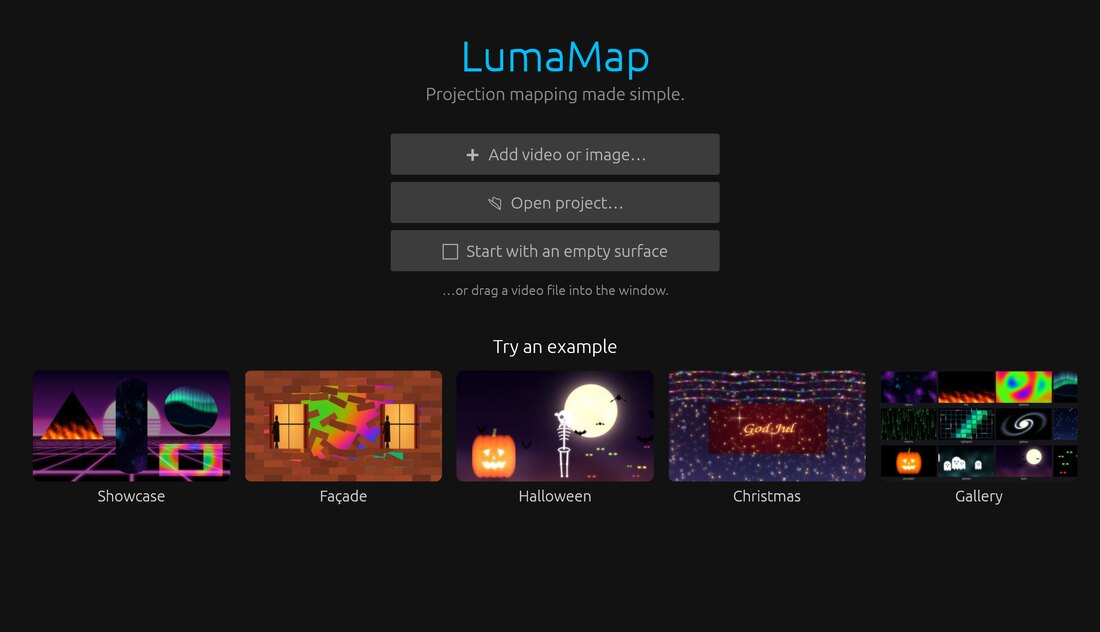
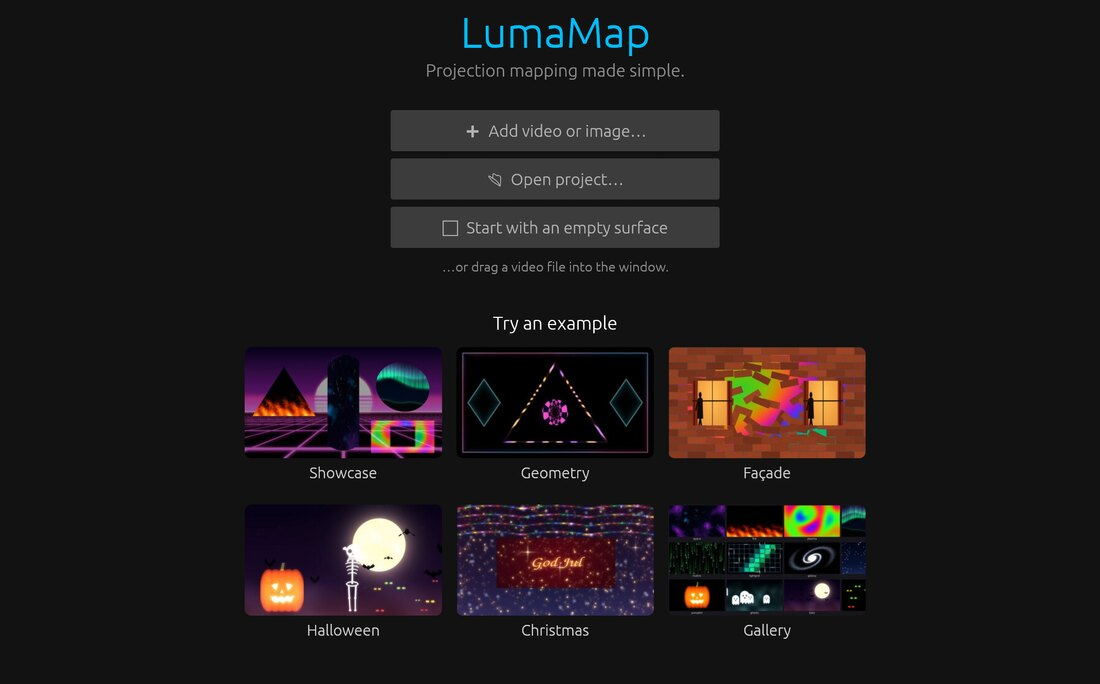
Snäpp, kantljus-effekter och exemplet Geometri
- Hörn snäpper mot andra ytors hörn och kanter och mot bildens kant;
  en hel yta snäpper med närmaste hörn. Gul ring visar snäppet, Ctrl = fritt.
- Nya effekter: Jagande ljus, Neonram och Ljussvep (kanten räknas i pixlar)
- examples/geometry.lmap: geometrisk show utan video, med cues
- Välkomstvyn fördelar exempelkorten jämnt över raderna

Changed region(s): [[0.0309, 0.481, 0.9891, 0.932], [0.34, 0.0301, 0.68, 0.481]]

diff --git a/crates/lm-app/src/canvas.rs b/crates/lm-app/src/canvas.rs
@@ -63,6 +63,9 @@ pub struct Drag {
 pub const ACCENT: Color32 = Color32::from_rgb(0, 190, 255);
 pub const MASK_COLOR: Color32 = Color32::from_rgb(255, 150, 40);
 const HANDLE_HIT: f32 = 14.0;
+/// Hur nära (i skärmpunkter) ett hörn måste vara för att snäppa.
+const SNAP_CORNER: f32 = 12.0;
+const SNAP_EDGE: f32 = 8.0;
 /// Antal linjesegment mellan två kontrollpunkter när meshkurvor ritas.
 const CURVE_STEPS: usize = 8;
 
@@ -253,13 +256,19 @@ impl LumaApp {
                             }
                         }
                     }
-                    let (id, g) = (d.surface, d.gesture);
+                    let (id, g, point) = (d.surface, d.gesture, d.point);
+                    // Snäpp mot andra ytor och bildens kant (Ctrl = dra fritt).
+                    self.snap_mark = None;
+                    if matches!(kind, PtKind::Dst(_)) && !ui.input(|i| i.modifiers.command) {
+                        self.snap(&v, kind, id, point, &mut pts);
+                    }
                     self.set_points(id, kind, pts, Some(g));
                 }
             }
         }
         if resp.drag_stopped() {
             self.drag = None;
+            self.snap_mark = None;
         }
 
         if let (PtKind::Mask(_), Some(pos)) = (kind, pointer) {
@@ -332,6 +341,11 @@ impl LumaApp {
             if e.bottom > 0.0 {
                 dash(egui::pos2(rect.min.x, y1), egui::pos2(rect.max.x, y1));
             }
+        }
+        if let (Some(m), true) = (self.snap_mark, self.drag.is_some()) {
+            let c = v.pt(m);
+            painter.circle_stroke(c, 11.0, Stroke::new(2.0, Color32::from_rgb(255, 220, 80)));
+            painter.circle_stroke(c, 15.0, Stroke::new(1.0, Color32::from_rgba_unmultiplied(255, 220, 80, 120)));
         }
         let mut labels: Vec<Rect> = Vec::new();
         for id in self.canvas_surfaces(kind) {
@@ -413,6 +427,76 @@ impl LumaApp {
                     painter.circle(*p, r, fill, Stroke::new(2.0, if matches!(kind, PtKind::Mask(_)) { MASK_COLOR } else { ACCENT }));
                 } else {
                     painter.circle_filled(*p, 3.5, color);
+                }
+            }
+        }
+    }
+
+    /// Snäpper dragna punkter: ett hörn mot andra ytors hörn, deras kanter och
+    /// bildens kant; en hel yta så att något av dess hörn hamnar på ett hörn.
+    fn snap(&mut self, v: &View, kind: PtKind, id: SurfaceId, point: Option<usize>, pts: &mut [Pt]) {
+        let others: Vec<SurfaceId> = self.canvas_surfaces(kind).into_iter().filter(|o| *o != id).collect();
+        // Hörn att snäppa till: andra synliga ytors punkter och bildens hörn.
+        let mut corners: Vec<Pt> = vec![[0.0, 0.0], [1.0, 0.0], [1.0, 1.0], [0.0, 1.0]];
+        for o in &others {
+            if self.project.surface(*o).is_some_and(|s| s.visible) {
+                corners.extend_from_slice(self.points(*o, kind).unwrap_or_default());
+            }
+        }
+        let screen = |p: Pt| {
+            let q = v.pt(p);
+            [q.x, q.y]
+        };
+        let dist = |a: [f32; 2], b: [f32; 2]| ((a[0] - b[0]).powi(2) + (a[1] - b[1]).powi(2)).sqrt();
+        match point {
+            Some(i) => {
+                let at = screen(pts[i]);
+                let best = corners
+                    .iter()
+                    .map(|c| (dist(screen(*c), at), *c))
+                    .filter(|(d, _)| *d <= SNAP_CORNER)
+                    .min_by(|a, b| a.0.total_cmp(&b.0));
+                if let Some((_, c)) = best {
+                    pts[i] = c;
+                    self.snap_mark = Some(c);
+                    return;
+                }
+                // Kanter: andra ytors konturer och bildens ram.
+                let mut edges: Vec<Vec<[f32; 2]>> = vec![[[0.0, 0.0], [1.0, 0.0], [1.0, 1.0], [0.0, 1.0]].iter().map(|p| screen(*p)).collect()];
+                for o in &others {
+                    if self.project.surface(*o).is_some_and(|s| s.visible) {
+                        edges.push(self.outline(*o, kind).iter().map(|p| screen(*p)).collect());
+                    }
+                }
+                let best = edges
+                    .iter()
+                    .filter_map(|e| lm_geom::nearest_edge(at, e, SNAP_EDGE))
+                    .map(|(_, q)| (dist(q, at), q))
+                    .min_by(|a, b| a.0.total_cmp(&b.0));
+                if let Some((_, q)) = best {
+                    let n = v.norm(egui::pos2(q[0], q[1]));
+                    pts[i] = n;
+                    self.snap_mark = Some(n);
+                }
+            }
+            None => {
+                let mut best: Option<(f32, Pt, Pt)> = None;
+                for p in pts.iter() {
+                    let at = screen(*p);
+                    for c in &corners {
+                        let d = dist(screen(*c), at);
+                        if d <= SNAP_CORNER && best.is_none_or(|b| d < b.0) {
+                            best = Some((d, *p, *c));
+                        }
+                    }
+                }
+                if let Some((_, from, to)) = best {
+                    let delta = [to[0] - from[0], to[1] - from[1]];
+                    for p in pts.iter_mut() {
+                        p[0] += delta[0];
+                        p[1] += delta[1];
+                    }
+                    self.snap_mark = Some(to);
                 }
             }
         }

diff --git a/crates/lm-core/src/model.rs b/crates/lm-core/src/model.rs
@@ -492,12 +492,18 @@ pub enum EffectKind {
     ColorCycle = 8,
     Strobe = 9,
     Outline = 10,
+    Chase = 11,
+    Neon = 12,
+    Sweep = 13,
 }
 
 impl EffectKind {
-    pub const ALL: [EffectKind; 11] = [
+    pub const ALL: [EffectKind; 14] = [
         EffectKind::None,
         EffectKind::Outline,
+        EffectKind::Chase,
+        EffectKind::Neon,
+        EffectKind::Sweep,
         EffectKind::Kaleidoscope,
         EffectKind::Tile,
         EffectKind::Scroll,
@@ -523,6 +529,9 @@ impl EffectKind {
             EffectKind::ColorCycle => t("Färgcykel", "Colour cycle"),
             EffectKind::Strobe => t("Blinka", "Strobe"),
             EffectKind::Outline => t("Konturglöd", "Edge glow"),
+            EffectKind::Chase => t("Jagande ljus", "Chasing lights"),
+            EffectKind::Neon => t("Neonram", "Neon frame"),
+            EffectKind::Sweep => t("Ljussvep", "Light sweep"),
         }
     }
 
@@ -540,6 +549,9 @@ impl EffectKind {
             EffectKind::ColorCycle => t("Färgerna vandrar runt färghjulet", "Colours travel around the colour wheel"),
             EffectKind::Strobe => t("Ytan blinkar i takt", "The surface flashes to the beat"),
             EffectKind::Outline => t("Bara kanterna lyser, med ett ljus som springer runt", "Only the edges glow, with a light running around"),
+            EffectKind::Chase => t("Ljuspunkter springer runt ytans kant – som en ljusslinga", "Dots of light run around the edge – like a light chain"),
+            EffectKind::Neon => t("En skarp lysande ram runt ytan som pulserar i takt", "A sharp glowing frame around the surface that pulses to the beat"),
+            EffectKind::Sweep => t("En ljusstrimma sveper över ytan i takt", "A bar of light sweeps across the surface to the beat"),
         }
     }
 }
@@ -1002,6 +1014,25 @@ mod tests {
             for s in &p.sources {
                 assert!(dir.join(s.kind.path().unwrap()).exists(), "{name}: {}", s.name);
             }
+        }
+    }
+
+    #[test]
+    fn geometry_project_uses_edge_effects() {
+        let p = Project::from_ron(include_str!("../../../examples/geometry.lmap")).unwrap();
+        assert_eq!(p.cues.len(), 4);
+        // Bara mönster och färger – inga filer.
+        assert!(p.sources.iter().all(|s| s.kind.path().is_none()));
+        for kind in [EffectKind::Chase, EffectKind::Neon, EffectKind::Sweep] {
+            assert!(p.surfaces.iter().any(|s| s.effect.kind == kind), "{kind:?}");
+        }
+    }
+
+    #[test]
+    fn effect_kinds_are_listed_once() {
+        for (i, a) in EffectKind::ALL.iter().enumerate() {
+            assert!(!EffectKind::ALL[i + 1..].contains(a), "{a:?}");
+            assert!(*a == EffectKind::None || !a.hint().is_empty(), "{a:?}");
         }
     }
 

diff --git a/crates/lm-app/src/welcome.rs b/crates/lm-app/src/welcome.rs
@@ -16,9 +16,10 @@ pub struct Example {
 }
 
 /// Exemplen och deras namn, i den ordning de visas.
-fn example_names() -> [(&'static str, &'static str); 5] {
+fn example_names() -> [(&'static str, &'static str); 6] {
     [
         ("showcase", t("Översikt", "Showcase")),
+        ("geometry", t("Geometri", "Geometry")),
         ("facade", t("Fasad", "Façade")),
         ("halloween", "Halloween"),
         ("christmas", t("Jul", "Christmas")),
@@ -110,7 +111,10 @@ impl LumaApp {
                     ui.label(RichText::new(t("Prova ett exempel", "Try an example")).size(18.0).strong());
                     ui.add_space(10.0);
                     let gap = 14.0;
-                    let per_row = (((ui.available_width() + gap) / (CARD.x + gap)) as usize).clamp(1, examples.len());
+                    // Så många kort som ryms, men jämnt fördelade (3 + 3 hellre än 5 + 1).
+                    let fits = (((ui.available_width() + gap) / (CARD.x + gap)) as usize).clamp(1, examples.len());
+                    let rows = examples.len().div_ceil(fits);
+                    let per_row = examples.len().div_ceil(rows);
                     for chunk in examples.chunks(per_row) {
                         let width = chunk.len() as f32 * (CARD.x + gap) - gap;
                         ui.allocate_ui(egui::vec2(width, CARD.y + 30.0), |ui| {

diff --git a/crates/lm-app/src/app.rs b/crates/lm-app/src/app.rs
@@ -118,6 +118,8 @@ pub struct LumaApp {
     pub recent: Vec<PathBuf>,
     pub welcome_closed: bool,
     pub examples: Option<Vec<crate::welcome::Example>>,
+    /// Punkten ett drag just snäppte till (ritas som en ring).
+    pub snap_mark: Option<lm_core::Pt>,
 }
 
 impl LumaApp {
@@ -194,6 +196,7 @@ impl LumaApp {
             recent: load_recent(),
             welcome_closed: false,
             examples: None,
+            snap_mark: None,
         };
 
         match startup.file {

diff --git a/README.md b/README.md
@@ -23,6 +23,8 @@ The goal: *map a video onto a wall in two minutes without reading a manual.*
   projector windows render the same image, live.
 - **Surfaces:** quad (perspective-correct, no diagonal seam), triangle,
   ellipse and curved mesh for pillars and arches.
+- **Snapping:** corners snap to other surfaces and to the image edge, so
+  neighbouring surfaces meet without gaps.
 - **Masks** with soft edges – cut out a window or a door. Masks stay put on
   the wall when you adjust the surface.
 - **Align with a webcam:** the projector shows a few dots, the camera finds
@@ -35,9 +37,11 @@ The goal: *map a video onto a wall in two minutes without reading a manual.*
   solid colours and **live patterns** drawn on the GPU – no video needed.
 - **21 ready-made loops** to use freely – space, fire, aurora, Christmas,
   Halloween, a collapsing brick façade and more (see [Examples](#examples)).
-- **Effects on any surface:** edge glow that follows the surface's shape,
-  kaleidoscope, tiles, scroll, rotate, pulse, colour cycle, strobe, blur,
-  invert – in time with a tempo you tap in.
+- **Effects on any surface:** edge lights that follow the surface's shape
+  (edge glow, chasing lights, neon frame, light sweep), kaleidoscope, tiles,
+  scroll, rotate, pulse, colour cycle, strobe, blur, invert – in time with a
+  tempo you tap in. Edge lights turn plain shapes into a geometric show with
+  no video at all.
 - **Sound-reactive:** effects can follow the bass from a microphone or from
   what the computer plays; the tempo is picked up from the music.
 - Crop, blend modes (normal, add, multiply, screen) and colour correction
@@ -108,7 +112,7 @@ The binary ends up in `target/release/lumamap`.
 LumaMap opens with a welcome screen: add a video, open a project, or click
 one of the examples to see how a finished show is built.
 
-![Welcome screen with the five example projects](docs/welcome.jpg)
+![Welcome screen with the six example projects](docs/welcome.jpg)
 
 1. Drag a video or image into the window. It appears on a new surface.
 2. Drag the surface's four corners until they fit the wall.
@@ -128,7 +132,9 @@ are on the welcome screen and under ☰ → **Recent**.
   Drag media onto a surface (in the list or in the preview) to show it there.
   Drag surfaces up and down to change which one is in front; 👁 hides one.
   Cues show their fade time, ▶ marks the running cue and › the next one.
-- **Middle – the projector preview.** Drag corners or whole surfaces.
+- **Middle – the projector preview.** Drag corners or whole surfaces. A
+  corner snaps to the corners and edges of other surfaces and to the edge of
+  the image (a yellow ring shows it); hold **Ctrl** to drag freely.
   **Right-click** a surface for a menu (media, shape, straighten, fill,
   front/back, duplicate, delete). **Scroll** to zoom in on a corner, drag
   with the **middle button** to pan, and click the 🔍 button to zoom out.
@@ -195,6 +201,7 @@ There are also greeting cards: `god-jul.jpg`, `merry-christmas.jpg`,
 | Project | |
 |---|---|
 | `examples/showcase.lmap` | Every surface type at once: fire on a triangle, space on a curved pillar, aurora in an ellipse, a masked plasma window, a neon floor |
+| `examples/geometry.lmap` | A geometric show without any video: a neon frame, a triangle of chasing lights, a tunnel pattern in a circle, two neon diamonds and a light sweep |
 | `examples/christmas.lmap` | Snow on the façade, lights along the eaves, Santa, a "God Jul" greeting with glitter |
 | `examples/halloween.lmap` | Bats and the moon, a pumpkin on the steps, ghosts, a skeleton in the door, eyes in the bushes |
 | `examples/facade.lmap` | The brick wall illusion over the whole house, with the silhouette film in two windows |
@@ -230,11 +237,14 @@ python3 examples/media/generate.py fire neon  # just some
 | Ctrl+N / Ctrl+O / Ctrl+S / Ctrl+Shift+S | New / open / save / save as |
 | Scroll / middle-drag | Zoom / pan the preview |
 | Right-click | Menu for the surface under the mouse |
+| Ctrl while dragging | Don't snap to other surfaces |
 
 ## Effects and music
 
-Pick an **Effect** for a surface in its settings and set **Amount** and
-**Speed**. Speed is counted in beats of the tempo shown in the toolbar
+Pick an **Effect** for a surface in its **✨ Effect** tab and set **Amount**
+and **Speed**. The edge lights – **Edge glow**, **Chasing lights**, **Neon
+frame** – light up only the outline of the surface in the colours of its
+media, so a pattern or a plain colour is enough. Speed is counted in beats of the tempo shown in the toolbar
 (♩ 120) – press **Tap** in time with the music to set it.
 
 To make effects follow the music, choose 🎵 **Microphone** or **Computer

diff --git a/ARCHITECTURE.md b/ARCHITECTURE.md
@@ -306,7 +306,7 @@ huvudtråden – exakt samma väg som musen.
 | **v0.4** | AppImage/Flatpak, NV12-shader, zero-copy, MIDI. | ✅ utom zero-copy (se nedan) |
 | **v1.0** | Stabilitet, dokumentation, exempelprojekt. | ✅ |
 | **v1.1 – UI/UX** | En "➕ Lägg till"-meny, dra media till ytor, levande miniatyrer i listor, öga-ikon och dra-för-ordning i ytlistan, flikar i egenskapspanelen, högerklicksmeny, zoom/panorering i förhandsvisningen, välkomstvy med exempel och senaste projekt, tydligare cue-lista (▶ nu, › nästa). | ✅ |
-| **v1.2** | Snäpp mot andra ytors hörn och kanter, kantljus-effekter (jagande ljus, kontur, neon-ram). | |
+| **v1.2** | Snäpp mot andra ytors hörn och kanter och bildens kant (Ctrl = fritt), kantljus-effekter (jagande ljus, neonram, ljussvep) och exemplet `geometry.lmap`. | ✅ |
 | **v1.3** | Fjärrkontroll i mobilen (webbsida + QR-kod), automatisk tidslinje för cues, schema (start/släck på klockslag). | |
 | **v1.4** | Klippgrid för live-byten (på nästa beat), LED-pixelmappning via Art-Net. | |
 | Senare | Rörelseinteraktivitet via webbkamera, ritläge för ljus, NDI-källor, kamerakalibrering och 3D-modellmappning (Splash-nivå), shader-effekter, Syphon/Spout-liknande delning via PipeWire, zero-copy. | |
